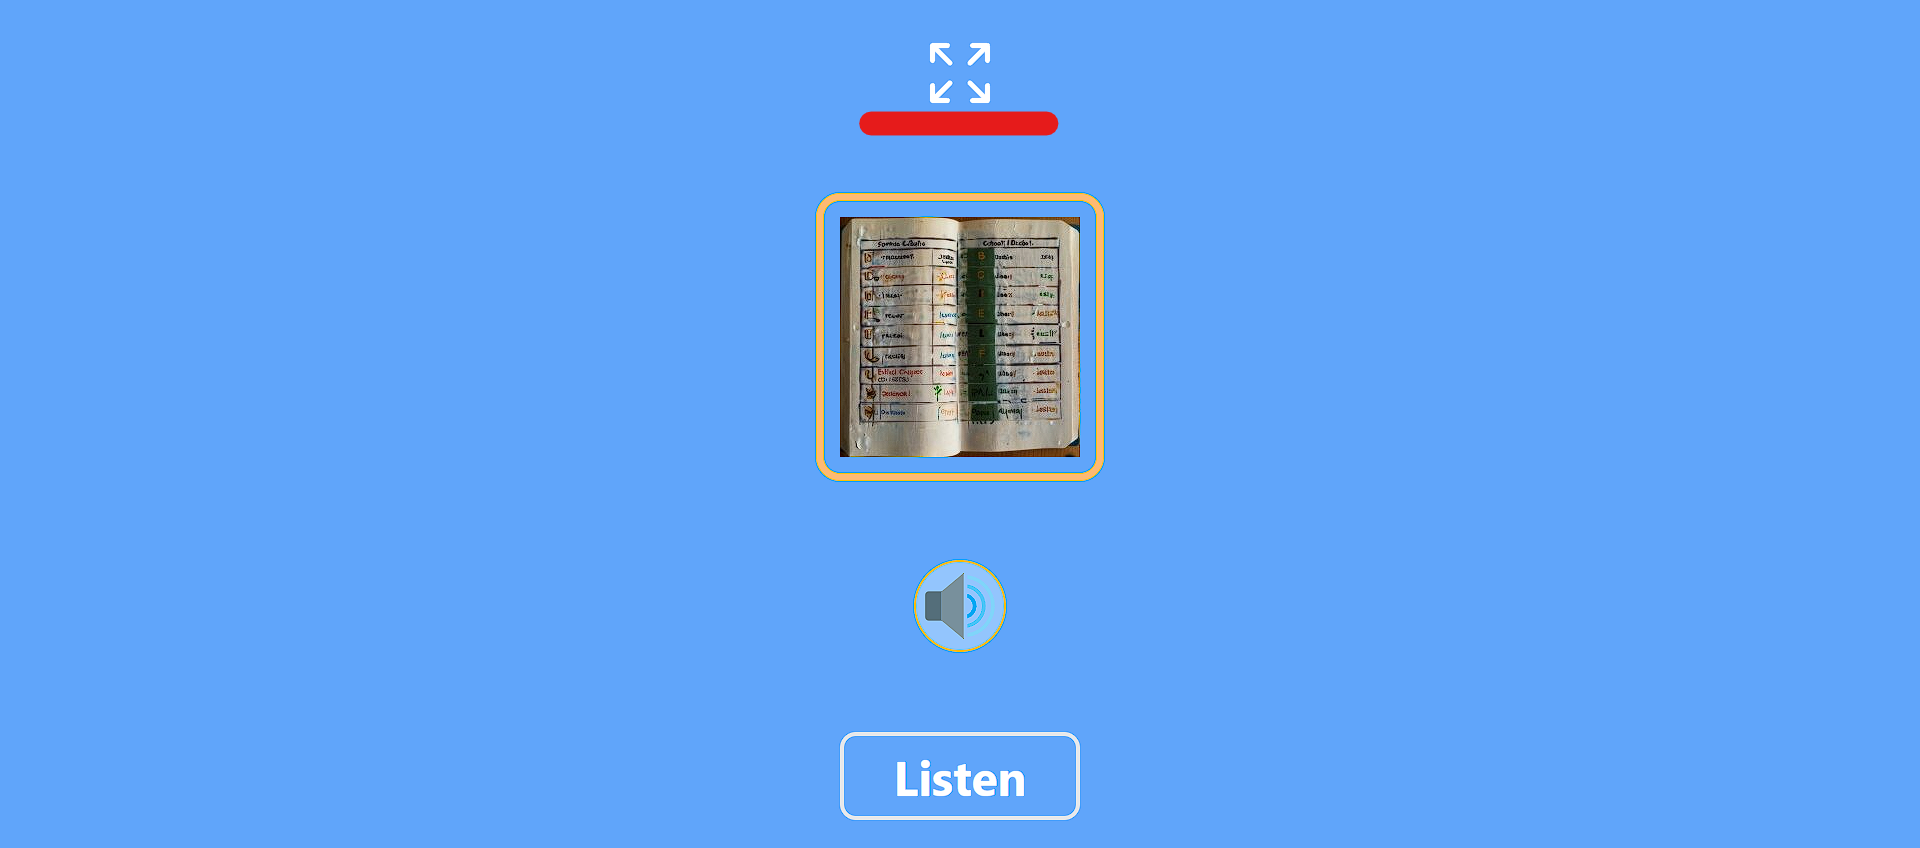
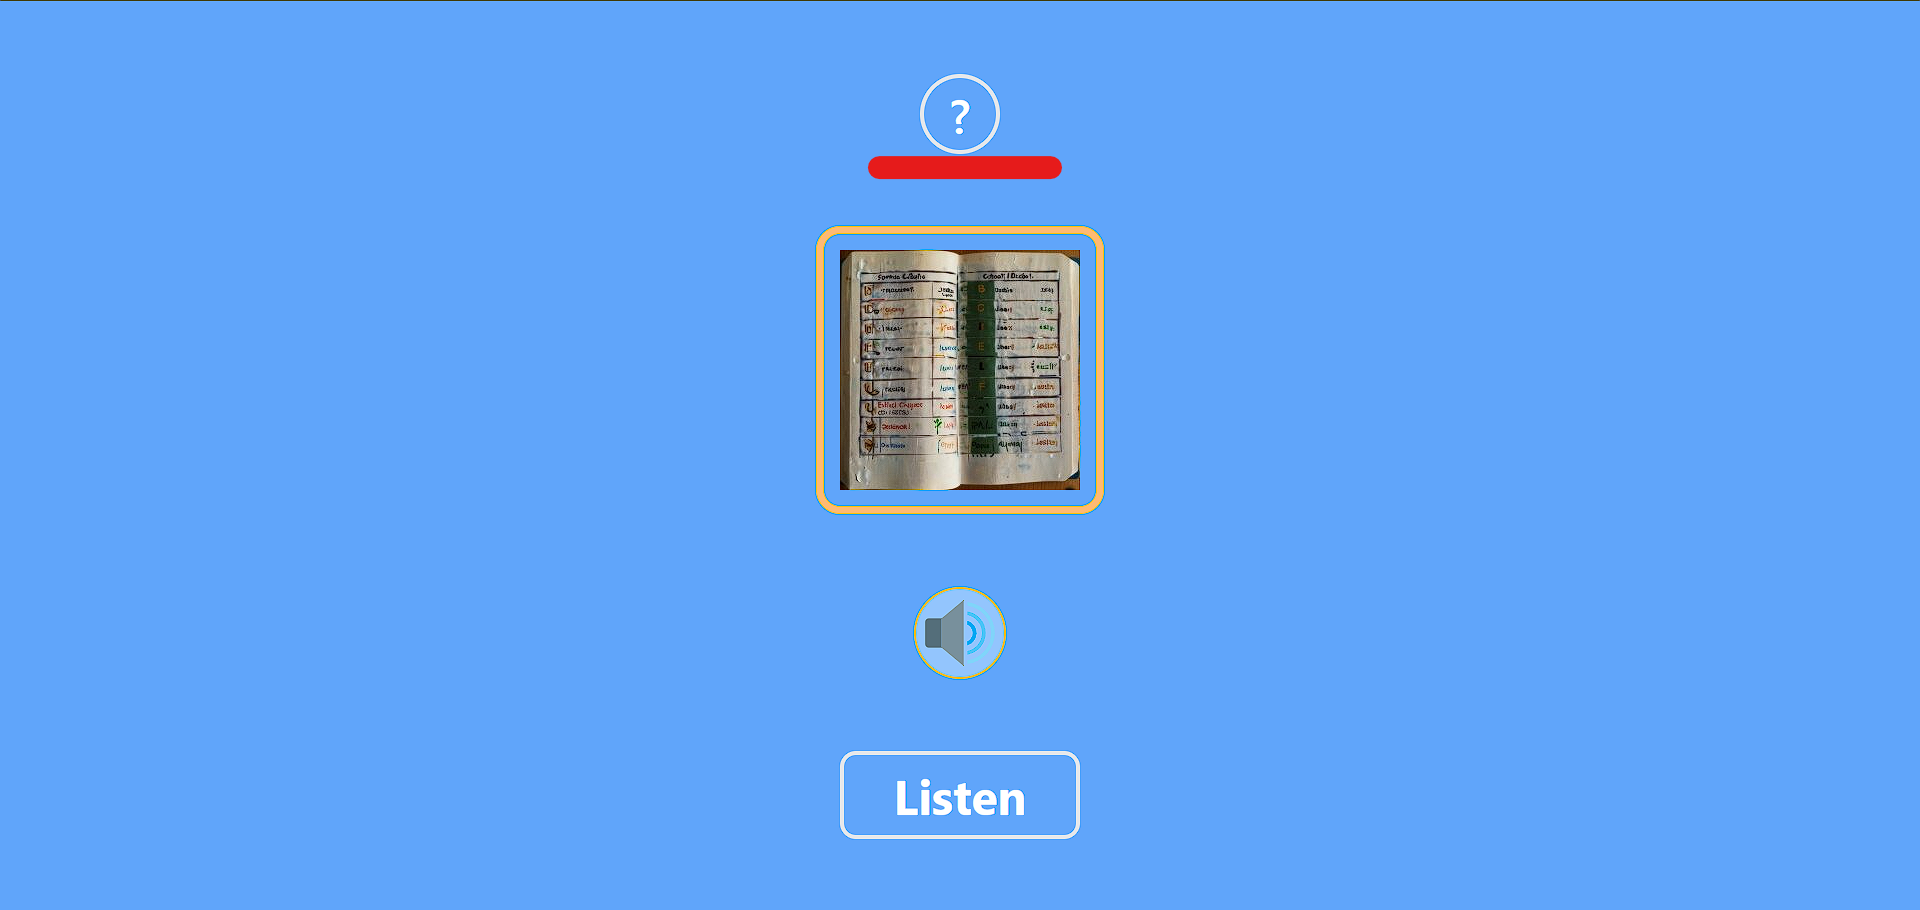
doc: update README.md

diff --git a/README.md b/README.md
@@ -23,7 +23,7 @@ The user can choose the topic in the home page to move the interface area
 
 #### Text section:
 
-This is the word or words to study, you can click on the text to hide it:
+This is the word or words to study, you can click on question mark to show the text:
 
 ![interface_text_area_1](assets/images/sections/interface_text_section_1.png)
 ![interface_text_area_2](assets/images/sections/interface_text_section_2.png)
@@ -118,6 +118,10 @@ the images files are referenced in the meta-data objects file name field, these 
 <br/>
 
 > ## Known issues
+
+![Firefox](assets/images/icons//firefox.png)
+
+- **_speech does not work on Firefox_** because it is based on the Chromium speech utterance api
 
 ### **Playwright**
 
